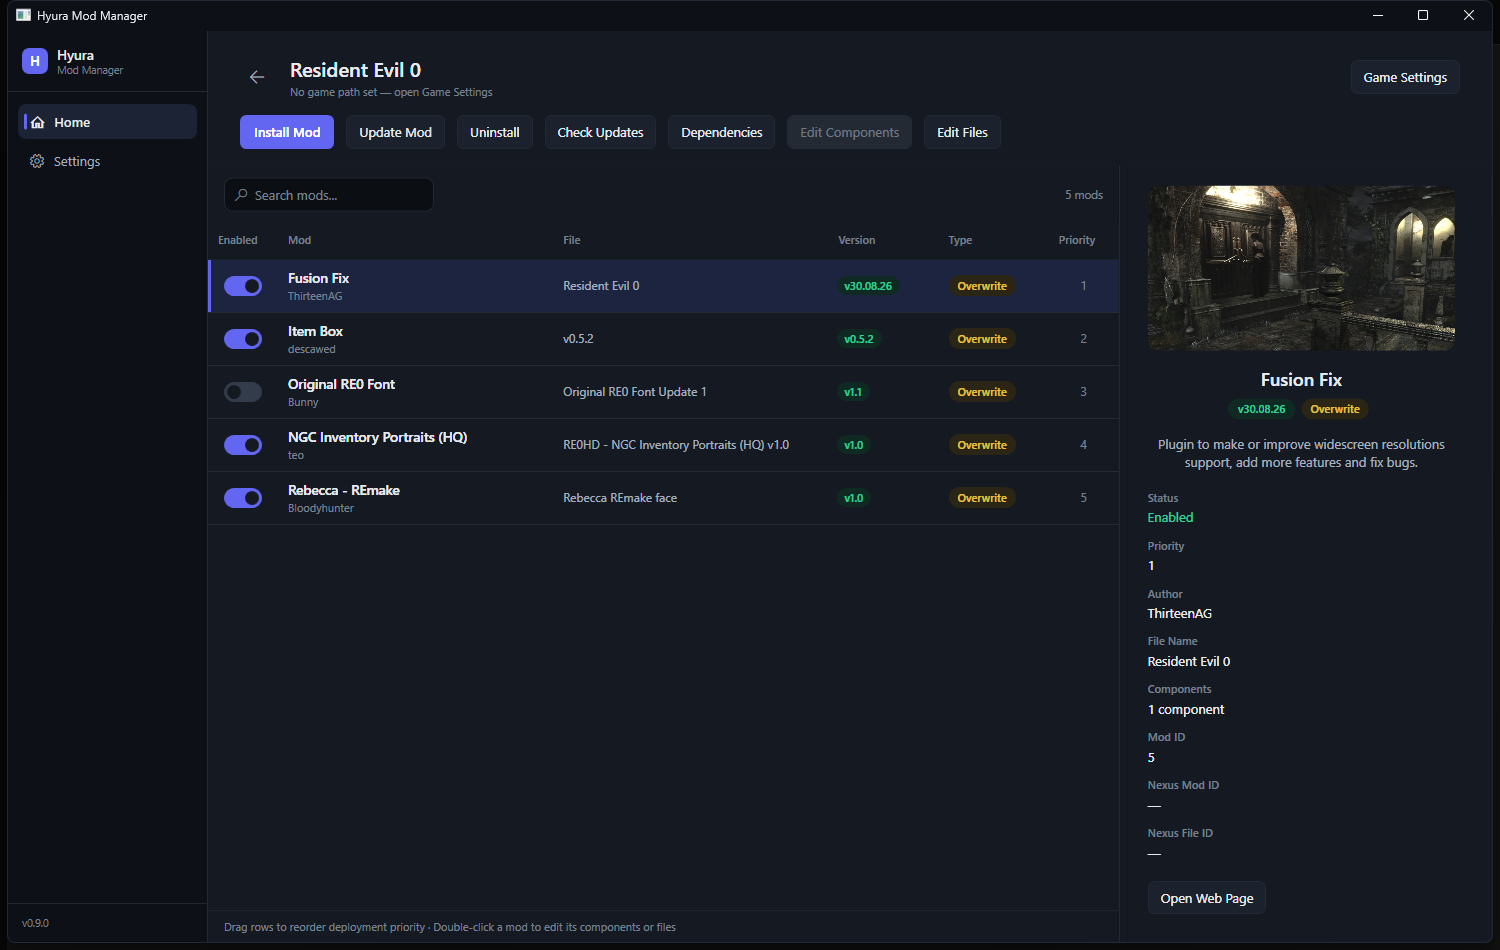
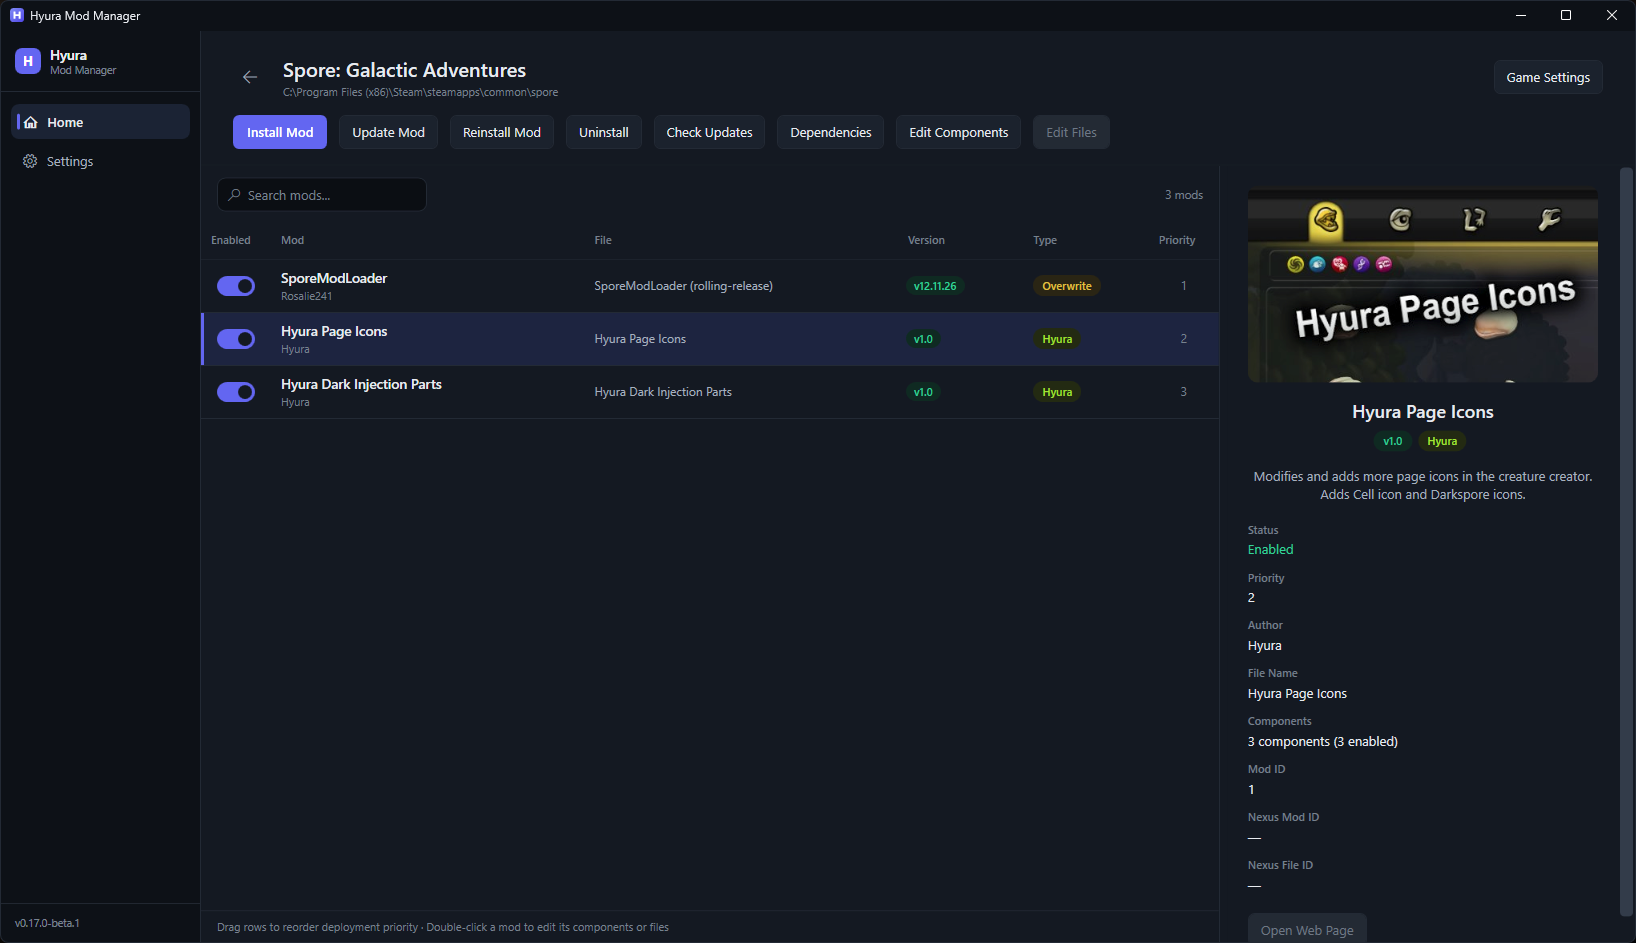
Show the main views in the README

diff --git a/README.md b/README.md
@@ -8,7 +8,7 @@ original game files, and restores them when you disable or uninstall a mod. It
 understands Fluffy `modinfo.ini` packages, REFramework plugins, Unreal `.pak` and
 LogicMods files, loose Lua/DLL mods, plain overwrite mods, and Hyura packages.
 
-![Hyura Mod Manager managing mods for Resident Evil 0](docs/mod-manager.png)
+![Hyura Mod Manager managing mods for Spore: Galactic Adventures](docs/mod-manager.png)
 
 <p align="center">
   <a href="https://github.com/TaylorHyura/Hyura-Mod-Manager/releases">
@@ -55,6 +55,19 @@ this repository's Releases page before running it.
   archive without losing the mod's position.
 - **Themes and accessibility** - Light, Dark, Graphite Dark and Auto themes, keyboard
   focus styles, and accessible control names.
+
+## Screenshots
+
+<table>
+  <tr>
+    <td width="50%"><img src="docs/my-games.png" alt="My Games"><br><sub><b>My Games</b> &mdash; your game library</sub></td>
+    <td width="50%"><img src="docs/browse.png" alt="Browse"><br><sub><b>Browse</b> &mdash; official and community catalogs</sub></td>
+  </tr>
+  <tr>
+    <td width="50%"><img src="docs/dependencies.png" alt="Dependencies"><br><sub><b>Dependencies</b> &mdash; loaders such as REFramework or UE4SS</sub></td>
+    <td width="50%"><img src="docs/settings.png" alt="Settings"><br><sub><b>Settings</b> &mdash; Nexus API key, theme and game paths</sub></td>
+  </tr>
+</table>
 
 ## Requirements
 
